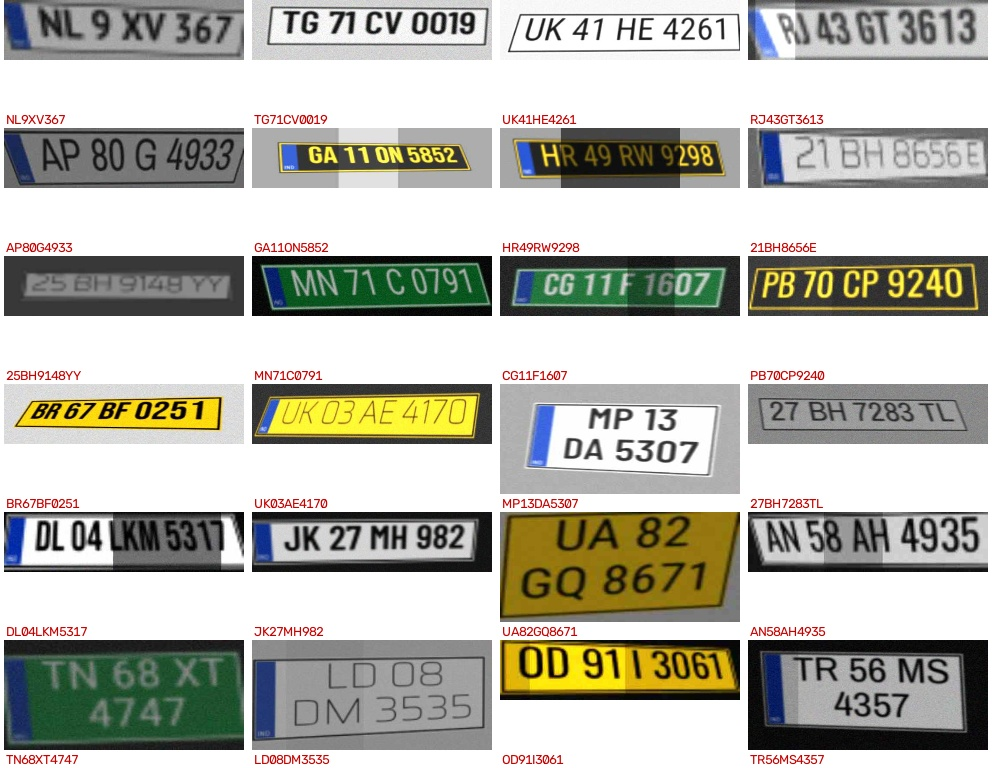
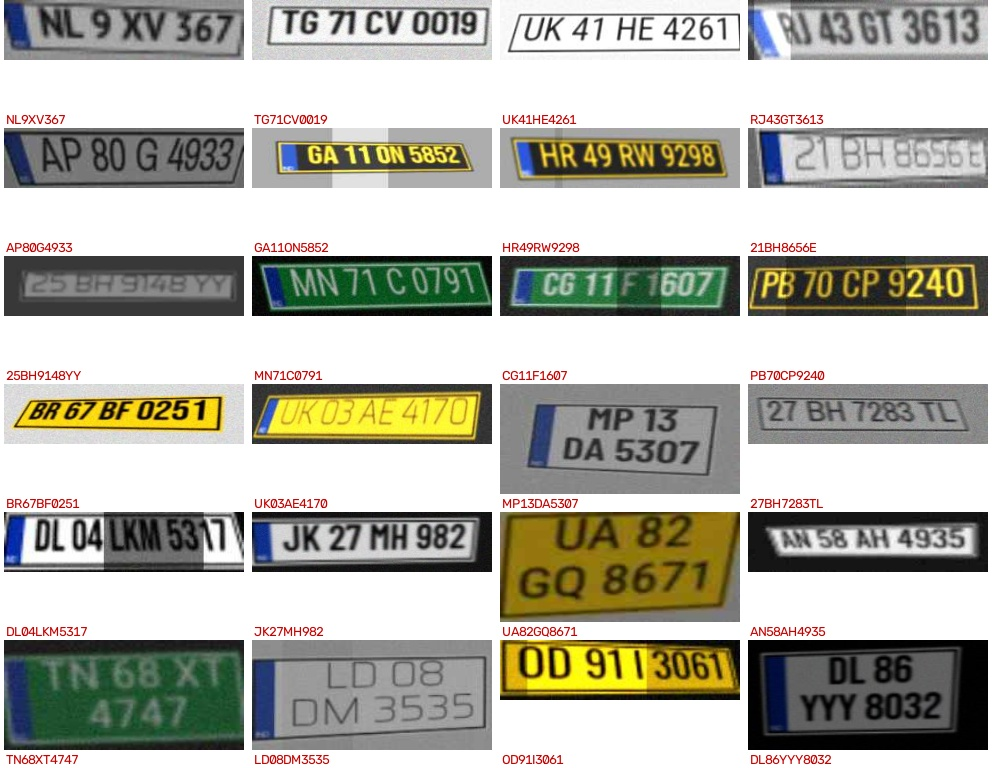
CRNN plate reader (synthetic-only training) and its Kaggle job

diff --git a/kaggle/reader/train_reader.py b/kaggle/reader/train_reader.py
@@ -1,0 +1,96 @@
+"""Train the CRNN plate reader on synthetic plates only (Kaggle GPU). Pushed with: kaggle kernels push -p kaggle/reader
+
+Real Sirisha *train* crops are used only to pick the checkpoint; the test split is never touched here.
+"""
+import json
+import random
+import shutil
+import sys
+from pathlib import Path
+
+IN, OUT = Path("/kaggle/input"), Path("/kaggle/working")
+code = next(IN.rglob("synth.py")).parent.parent
+sys.path.insert(0, str(code))
+shutil.copytree(code / "fonts", OUT / "data/fonts", dirs_exist_ok=True)  # synth looks in ./data/fonts
+
+import cv2
+import numpy as np
+import torch
+from torch import nn
+from torch.utils.data import DataLoader, IterableDataset
+
+from anpr import data, plate, reader, synth
+
+STEPS, BATCH, EVAL_EVERY = 12000, 256, 1000
+
+
+class Synthetic(IterableDataset):
+    def __iter__(self):
+        info = torch.utils.data.get_worker_info()
+        rng = random.Random(info.id if info else 0)
+        while True:
+            img, text, _ = synth.render(rng)
+            yield torch.from_numpy(reader.prep(img)), text
+
+
+def collate(batch):
+    xs, texts = zip(*batch)
+    return torch.stack(xs), texts
+
+
+def real_val():
+    root = next(IN.rglob("State-wise_OLX")).parent
+    out = []
+    for r in data.load(root):
+        if r["split"] == "train" and r["valid"]:
+            img = cv2.imread(str(r["image"]))
+            x1, y1, x2, y2 = map(int, r["box"])
+            if img is not None and x2 > x1 and y2 > y1:
+                out.append((reader.prep(img[y1:y2, x1:x2]), data.clean(r["text"])))
+    return out
+
+
+@torch.no_grad()
+def evaluate(model, val):
+    model.eval()
+    x = torch.from_numpy(np.stack([v[0] for v in val])).cuda()
+    logp = torch.cat([model(x[i:i + 512]) for i in range(0, len(x), 512)]).cpu().numpy()
+    raw = [reader.decode(l) for l in logp]
+    fixed = [data.clean(plate.correct(r) or "") for r in raw]
+    truth = [v[1] for v in val]
+    model.train()
+    return {"raw": float(np.mean([a == b for a, b in zip(raw, truth)])),
+            "corrected": float(np.mean([a == b for a, b in zip(fixed, truth)]))}
+
+
+val = real_val()
+print("real val crops", len(val))
+model = reader.CRNN().cuda()
+opt = torch.optim.AdamW(model.parameters(), 2e-3, weight_decay=1e-4)
+sched = torch.optim.lr_scheduler.OneCycleLR(opt, 2e-3, total_steps=STEPS, pct_start=0.05)
+ctc = nn.CTCLoss(blank=0, zero_infinity=True)
+loader = DataLoader(Synthetic(), batch_size=BATCH, num_workers=4, collate_fn=collate, persistent_workers=True)
+
+history, best = [], -1.0
+for step, (x, texts) in enumerate(loader, 1):
+    targets = torch.tensor([i for t in texts for i in reader.encode(t)])
+    lengths = torch.tensor([len(t) for t in texts])
+    logp = model(x.cuda()).transpose(0, 1)  # (T,B,C) for CTCLoss
+    loss = ctc(logp, targets, torch.full((len(texts),), logp.shape[0], dtype=torch.long), lengths)
+    opt.zero_grad()
+    loss.backward()
+    nn.utils.clip_grad_norm_(model.parameters(), 5)
+    opt.step()
+    sched.step()
+    if step % EVAL_EVERY == 0 or step == STEPS:
+        m = {"step": step, "loss": float(loss), **evaluate(model, val)}
+        history.append(m)
+        print(m, flush=True)
+        if m["corrected"] > best:
+            best = m["corrected"]
+            torch.save(model.state_dict(), OUT / "reader.pt")
+    if step == STEPS:
+        break
+
+(OUT / "reader_history.json").write_text(json.dumps(history, indent=2))
+print("best real-val exact (corrected):", best)

diff --git a/anpr/synth.py b/anpr/synth.py
@@ -38,22 +38,22 @@ def render(rng):
     if two and rng.random() < 0.4 and len(parts) == 4:  # 'RJ 14 CD' over '1234'
         lines = [" ".join(parts[:3]), parts[3]]
     bg, fg = rng.choice(SCHEMES)
-    font = ImageFont.truetype(str(rng.choice(FONTS)), 64)
+    font = ImageFont.truetype(str(rng.choice(FONTS)), 36)
 
     sizes = [font.getbbox(t) for t in lines]
     tw, lh = max(b[2] - b[0] for b in sizes), max(b[3] - b[1] for b in sizes)
-    strip = 30 if rng.random() < 0.6 else 0  # HSRP blue 'IND' strip
-    W, H = tw + strip + 40, lh * len(lines) + 18 * len(lines) + 16
+    strip = 17 if rng.random() < 0.6 else 0  # HSRP blue 'IND' strip
+    W, H = tw + strip + 22, lh * len(lines) + 10 * len(lines) + 10
     im = Image.new("RGB", (W, H), bg)
     d = ImageDraw.Draw(im)
-    d.rectangle([2, 2, W - 3, H - 3], outline=fg, width=3)
+    d.rectangle([2, 2, W - 3, H - 3], outline=fg, width=2)
     if strip:
-        d.rectangle([6, 6, 6 + strip - 6, H - 7], fill=(25, 60, 160))
-        d.text((8, H - 22), "IND", fill=(240, 240, 240), font=ImageFont.truetype(str(FONTS[0]), 11))
-    y = 10
+        d.rectangle([4, 4, 4 + strip - 4, H - 5], fill=(25, 60, 160))
+        d.text((5, H - 13), "IND", fill=(240, 240, 240), font=ImageFont.truetype(str(FONTS[0]), 7))
+    y = 6
     for t, b in zip(lines, sizes):
-        d.text((strip + 20 + (tw - (b[2] - b[0])) // 2 - b[0], y - b[1]), t, fill=fg, font=font)
-        y += lh + 18
+        d.text((strip + 11 + (tw - (b[2] - b[0])) // 2 - b[0], y - b[1]), t, fill=fg, font=font)
+        y += lh + 10
     return degrade(np.array(im)[:, :, ::-1].copy(), rng), "".join(parts), two
 
 
@@ -64,11 +64,11 @@ def degrade(img, rng):
     src = np.float32([[0, 0], [w, 0], [w, h], [0, h]])
     dst = np.float32([[j(.06) * w, j(.12) * h], [w + j(.06) * w, j(.12) * h],
                       [w + j(.06) * w, h + j(.12) * h], [j(.06) * w, h + j(.12) * h]])
-    pad = rng.randint(0, 40)
+    pad = rng.randint(0, 22)
     bg = tuple(int(c) for c in rng.choice(((30, 30, 30), (120, 120, 120), (200, 200, 200))))
     img = cv2.warpPerspective(img, cv2.getPerspectiveTransform(src, dst + pad), (w + 2 * pad, h + 2 * pad),
                               borderValue=bg)
-    scale = rng.uniform(0.15, 0.7)  # real crops are often 60-150 px wide
+    scale = rng.uniform(0.3, 1.0)  # real crops are often 60-150 px wide
     small = cv2.resize(img, None, fx=scale, fy=scale, interpolation=cv2.INTER_AREA)
     img = cv2.resize(small, (img.shape[1], img.shape[0]), interpolation=cv2.INTER_LINEAR)
     if rng.random() < 0.5:
@@ -77,7 +77,7 @@ def degrade(img, rng):
     img = img.astype(np.float32) * rng.uniform(0.4, 1.3) + rng.uniform(-40, 40)
     if rng.random() < 0.3:  # shadow or glare band
         x = rng.randint(0, img.shape[1])
-        img[:, x:x + rng.randint(10, img.shape[1] // 2)] *= rng.uniform(0.4, 1.6)
+        img[:, x:x + rng.randint(6, img.shape[1] // 2)] *= rng.uniform(0.4, 1.6)
     img += np.random.default_rng(rng.randint(0, 2**31)).normal(0, rng.uniform(0, 12), img.shape)
     img = np.clip(img, 0, 255).astype(np.uint8)
     ok, buf = cv2.imencode(".jpg", img, [cv2.IMWRITE_JPEG_QUALITY, rng.randint(20, 90)])

diff --git a/anpr/reader.py b/anpr/reader.py
@@ -1,0 +1,48 @@
+"""Small CRNN plate reader (CTC). Same prep for training, evaluation and the browser export."""
+import cv2
+import numpy as np
+import torch
+from torch import nn
+
+CHARS = "0123456789ABCDEFGHIJKLMNOPQRSTUVWXYZ"  # CTC blank is index 0
+H, W = 32, 160
+TWO_LINE_ASPECT = 0.45  # h/w; single-line Indian plates are ~0.2, two-line ~0.6
+
+
+def prep(bgr):
+    """Plate crop -> 1x32x160 float array. Two-line plates are split and laid side by side."""
+    g = cv2.cvtColor(bgr, cv2.COLOR_BGR2GRAY) if bgr.ndim == 3 else bgr
+    h, w = g.shape
+    if h / w > TWO_LINE_ASPECT:
+        top, bottom = g[: h // 2], g[h // 2:]
+        g = np.hstack([cv2.resize(top, (w, H)), cv2.resize(bottom, (w, H))])
+    g = cv2.resize(g, (W, H), interpolation=cv2.INTER_AREA).astype(np.float32) / 255.0
+    return ((g - g.mean()) / (g.std() + 1e-6))[None]  # per-crop contrast normalisation
+
+
+class CRNN(nn.Module):
+    def __init__(self, n=len(CHARS) + 1):
+        super().__init__()
+        c = lambda i, o: [nn.Conv2d(i, o, 3, padding=1), nn.BatchNorm2d(o), nn.ReLU(inplace=True)]
+        self.cnn = nn.Sequential(
+            *c(1, 32), nn.MaxPool2d(2),                 # 16x80
+            *c(32, 64), nn.MaxPool2d(2),                # 8x40
+            *c(64, 128), *c(128, 128), nn.MaxPool2d((2, 1)),  # 4x40
+            *c(128, 192), nn.MaxPool2d((4, 1)),         # 1x40
+        )
+        self.rnn = nn.LSTM(192, 96, bidirectional=True, batch_first=True)
+        self.fc = nn.Linear(192, n)
+
+    def forward(self, x):  # (B,1,32,160) -> (B,40,n) log-probs
+        f = self.cnn(x).squeeze(2).transpose(1, 2)
+        return self.fc(self.rnn(f)[0]).log_softmax(-1)
+
+
+def decode(logp):
+    """Greedy CTC: collapse repeats, drop blanks. logp: (T, n) array."""
+    best = np.asarray(logp).argmax(-1)
+    return "".join(CHARS[i - 1] for k, i in enumerate(best) if i and (k == 0 or i != best[k - 1]))
+
+
+def encode(text):
+    return [CHARS.index(c) + 1 for c in text]

diff --git a/tests/test_core.py b/tests/test_core.py
@@ -62,3 +62,18 @@ def test_is_valid_flags_bad_labels():
     assert data.is_valid("RJ01AB1234")
     assert not data.is_valid("RJD1AB1234")  # typo the corrector would have to change
     assert not data.is_valid("CRETA")
+
+
+def test_reader_shapes_and_ctc_decode():
+    import numpy as np
+    import torch
+    from anpr import reader
+    one = reader.prep(np.zeros((30, 150, 3), np.uint8))       # single-line crop
+    two = reader.prep(np.zeros((100, 160, 3), np.uint8) + 7)  # two-line crop gets split
+    assert one.shape == two.shape == (1, reader.H, reader.W)
+    out = reader.CRNN()(torch.from_numpy(np.stack([one, two])))
+    assert out.shape == (2, reader.W // 4, len(reader.CHARS) + 1)
+    # blank=0; 'RJ' then repeated '1' separated by blank decodes to 'RJ11'
+    ids = [0] + reader.encode("RR") + [0] + reader.encode("J") + reader.encode("1") + [0] + reader.encode("1")
+    logp = np.eye(len(reader.CHARS) + 1)[ids]
+    assert reader.decode(logp) == "RJ11"
